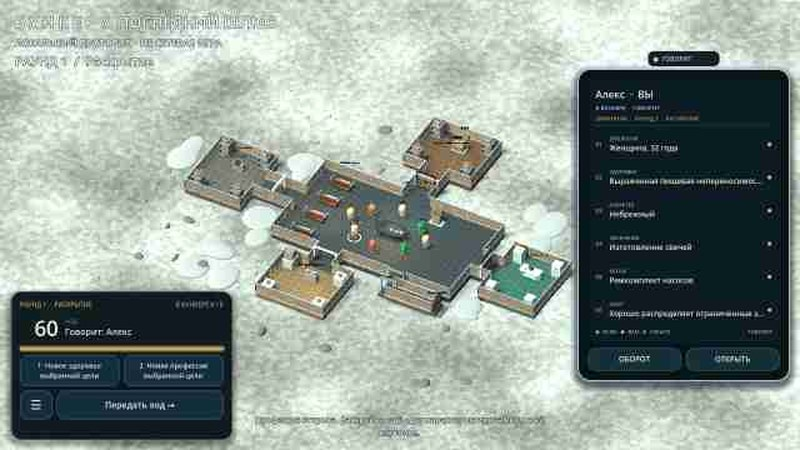
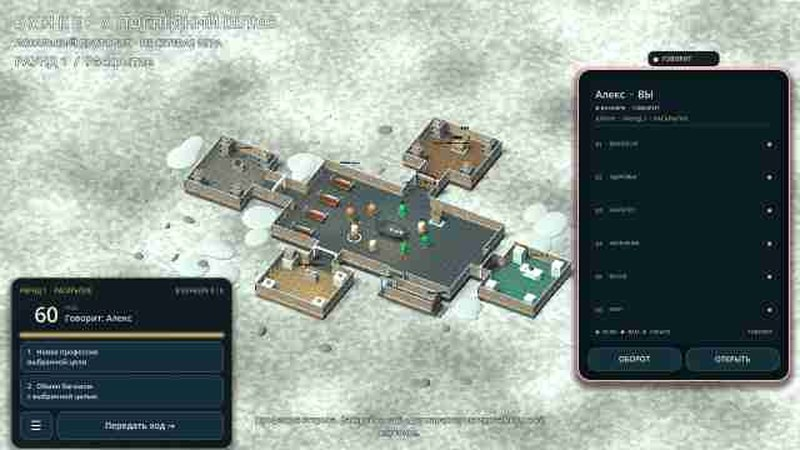
Bunker 0.27: single-line abilities, readable turn panel, wider HUD previews

diff --git a/docs/ITERATION_27.md b/docs/ITERATION_27.md
@@ -4,6 +4,10 @@
 
 ![Карточка на столе и панель хода](previews/hud.jpg)
 
+Обратная сторона переворачивается к параметрам касанием:
+
+![Параметры на карточке](previews/hud-params.jpg)
+
 ## Карточка справа
 
 - Вертикальная карта 340 × 500 в пропорции 2:3 у правого края экрана. Ничего не прокручивается и не перелистывается.
